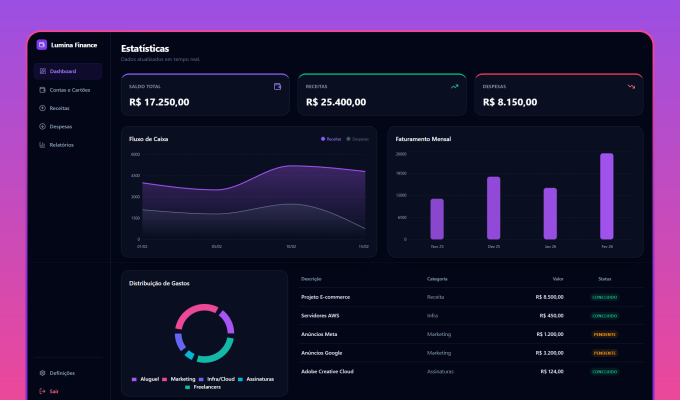
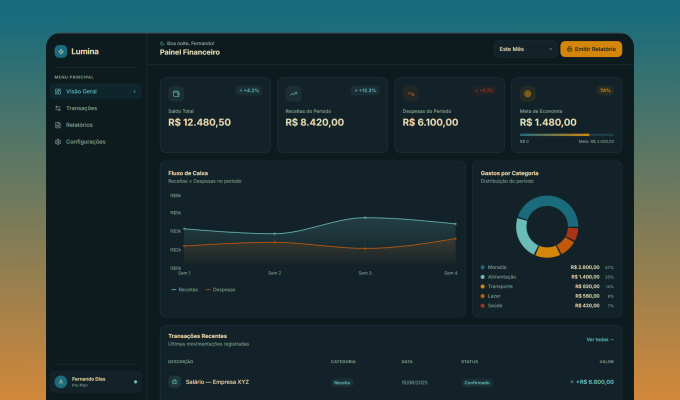
atualização 18-06-26

diff --git a/js/scripts.js b/js/scripts.js
@@ -152,8 +152,7 @@ projReset();
 const projectData = [{
 	title: 'Identidade Estratégica',
 	cat: 'Identidade Visual e Papelaria',
-	img: 'img/projetos/mockups/identidade_visual_1.webp',
-	img2: 'img/projetos/mockups/identidade_visual_2.webp',
+	img: 'img/projetos/mockups/identidade_visual.webp',	
 	imgAlt: 'Projeto de Identidade Estratégica — identidade visual e papelaria, Fernando Dias Design',
 	desc: 'Criação de logotipos e padronização visual corporativa. Projetos desenvolvidos sob medida, incluindo a escolha de cores, fontes e o design de materiais institucionais como cartões de visita, timbrados e envelopes, garantindo consistência na apresentação da marca.',
 	buttons: [{
